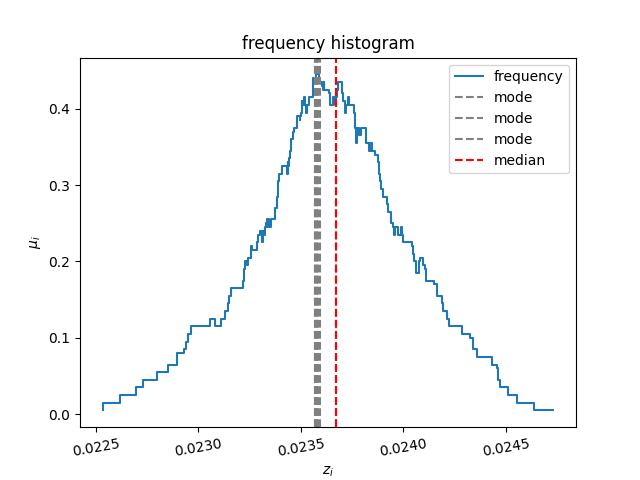
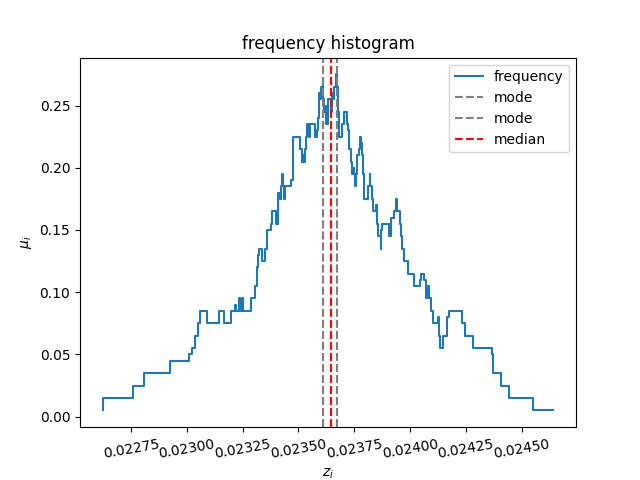
fixed detrend

diff --git a/ex_task/ex_task.py b/ex_task/ex_task.py
@@ -16,7 +16,7 @@ def find_all_plot(xs, wys, *, i_path: Path, detrend=False):
     _detr_str = "detrend "
     freqs = _get_freqs(wys)
 
-    modes = find_mode(wys, freqs, nmax=2)
+    modes = find_mode(wys, freqs, nmax=1)
     med = find_med(freqs)
     print(f"jk: {jk(wys)}")
     print(f"med: {med}")
@@ -63,24 +63,14 @@ def find_all_plot(xs, wys, *, i_path: Path, detrend=False):
     plt.show()
 
 
-def lab3_ext(d_path: Path, w_path: Path, *, i_path: Path, tol=1.9 * 1e-4):
+def lab3_ext(d_path: Path, w_path: Path, *, i_path: Path, tol=1e-4):
     ys = load_data(d_path)
     xs = np.arange(len(ys))
-    max_weight = np.max(load_weights(w_path))
-    low, high = ys - tol * max_weight, ys + tol * max_weight
+    B = np.loadtxt(w_path)
 
-    # pts = find_pts(xs, (low, high))
-    pts = [[7.98265896e-06, 2.35179375e-02], [1.63799716e-05, 2.20143629e-02], [7.54437870e-06, 2.22187311e-02],
-           [1.35555556e-05, 2.25538264e-02]]
-    *polys, = map(np.poly1d, pts)
-    pre_trend = np.zeros((len(polys), len(xs)))
-    for i, poly in enumerate(polys):
-        pre_trend[i] = poly(xs)
-    low_trend = np.min(pre_trend, axis=0)
-    high_trend = np.max(pre_trend, axis=0)
-
-    low_detrend = low - high_trend
-    high_detrend = high - low_trend
+    low, high = ys - tol, ys + tol
+    low_detrend = low - B * xs
+    high_detrend = high - B * xs
 
     plt.plot(xs, ys, label="orig")
     plt.legend()
@@ -133,14 +123,14 @@ def lab4_ext(predict_at, d_path: Path, w_path: Path, *, i_path: Path, tol=1.9 * 
 if __name__ == "__main__":
     cwd = Path(__file__).parent
     data_path = Path("./data/ch1_800nm_0.04.csv")
+    b_path = Path("./data/b.txt")
     weights_path = Path("./data/ch1_800nm_0.04.txt")
     imgs_path = Path("./imgs")
 
     if not imgs_path.exists():
         imgs_path.mkdir(parents=True, exist_ok=True)
 
-    # predict_at = (-10, 100.5, 1000)
     predict_at = (0, 101, 199)
 
-    # lab3_ext(cwd.joinpath(data_path), cwd.joinpath(weights_path), i_path=cwd.joinpath(imgs_path))
+    lab3_ext(cwd.joinpath(data_path), cwd.joinpath(b_path), i_path=cwd.joinpath(imgs_path))
     lab4_ext(predict_at, cwd.joinpath(data_path), cwd.joinpath(weights_path), i_path=cwd.joinpath(imgs_path))
